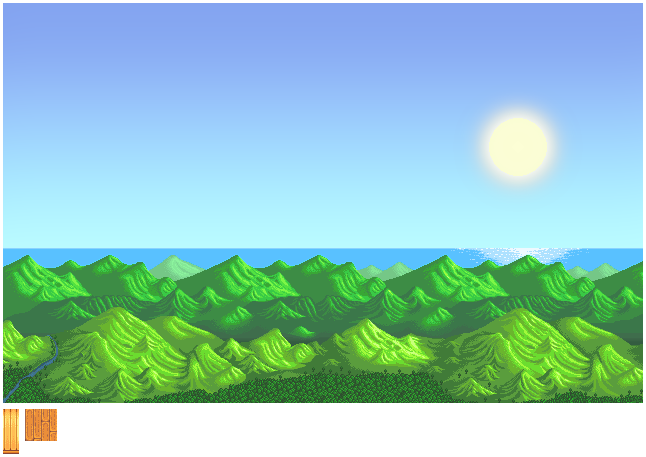
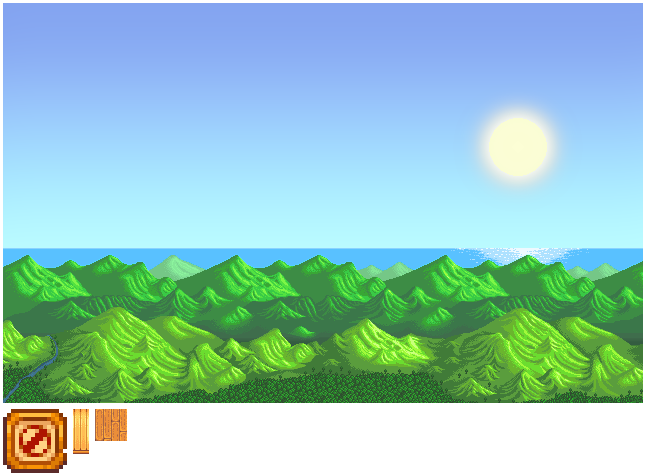
이미지 추가 및 이펙트 생성 중

Changed region(s): [[0.0, 0.5208, 1.0, 1.0], [0.774, 0.3676, 0.8359, 0.3982], [0.743, 0.2757, 0.774, 0.3063]]

diff --git a/Stardew_Valley/Stardew_Valley/Data/DataManager.cpp b/Stardew_Valley/Stardew_Valley/Data/DataManager.cpp
@@ -494,7 +494,7 @@ void DataManager::ReadTypes()
 
 	//TileTable
 	{
-		fin.open("Data/Contents/TileTable.txt");
+		fin.open("Data/Contents/TypeDefines/TileTable.txt");
 
 		string name;
 
@@ -511,7 +511,7 @@ void DataManager::ReadTypes()
 	}
 	//DeployTable
 	{
-		fin.open("Data/Contents/DeployableTable.txt");
+		fin.open("Data/Contents/TypeDefines/DeployableTable.txt");
 		string name;
 		short type;
 		short val;
@@ -536,7 +536,7 @@ void DataManager::ReadTypes()
 	}
 	//ItemTable
 	{
-		fin.open("Data/Contents/ItemTable.txt");
+		fin.open("Data/Contents/TypeDefines/ItemTable.txt");
 		string name;
 		string deployName;
 		short type;
@@ -565,7 +565,7 @@ void DataManager::ReadTypes()
 	}
 	// DropTable
 	{
-		fin.open("Data/Contents/DropTable.txt");
+		fin.open("Data/Contents/TypeDefines/DropTable.txt");
 		string name;
 		string dropItem;
 		short percent;
@@ -597,7 +597,7 @@ void DataManager::ReadTypes()
 	}
 	// FishTable
 	{
-		fin.open("Data/Contents/FishTable.txt");
+		fin.open("Data/Contents/TypeDefines/FishTable.txt");
 		_fishTable.push_back(make_shared<FishInfo>());
 		_fishTable.push_back(make_shared<FishInfo>());
 
@@ -618,7 +618,7 @@ void DataManager::ReadTypes()
 	}
 	// Crop
 	{
-		fin.open("Data/Contents/CropTable.txt");
+		fin.open("Data/Contents/TypeDefines/CropTable.txt");
 		
 
 		string name;
@@ -658,7 +658,7 @@ void DataManager::ReadTypes()
 	}
 	// Sale
 	{
-		fin.open("Data/Contents/SaleTable.txt");
+		fin.open("Data/Contents/TypeDefines/SaleTable.txt");
 
 
 		string name;
@@ -684,8 +684,8 @@ void DataManager::ReadTypes()
 
 	// Spawn
 	{
-		_spawnTable.resize(3);
-		fin.open("Data/Contents/SpawnTable.txt");
+		_spawnTable.resize(7);
+		fin.open("Data/Contents/TypeDefines/SpawnTable.txt");
 
 		string name;
 		int percent;
@@ -700,6 +700,7 @@ void DataManager::ReadTypes()
 			pair<string, int> pair = {name, percent};
 			_spawnTable[mapIndex].push_back(pair);
 		}
+
 
 		fin.close();
 	}

diff --git a/Stardew_Valley/Stardew_Valley/Object/GameObj/ObjectSpawner.cpp b/Stardew_Valley/Stardew_Valley/Object/GameObj/ObjectSpawner.cpp
@@ -269,19 +269,16 @@ void ObjectSpawner::ActiveDropItem(string name, Vector2 pos, int count)
 	}
 }
 
-void ObjectSpawner::SpawnObjects(shared_ptr<TileMap> map)
+void ObjectSpawner::SpawnObjects(shared_ptr<TileMap> map, int mapIndex, int objCount)
 {
-	int objCount = rand() % 10 + 18;
 
 	auto infos = DATA->GetDeployInfos();
 
-	auto curMap = map->GetcurrentMapInfo();
+	shared_ptr<MapInfo> mapInfo = map->GetMapInfos()[mapIndex];
 
-	vector<shared_ptr<Tile>> tiles = curMap->GetInfos();
-	int index = map->GetCurrentMapIndex();
-	if (index > 2)
-		index = 2;
-	auto spawnTable = DATA->GetSpawnInfo(index);
+	vector<shared_ptr<Tile>> tiles = mapInfo->GetInfos();
+
+	auto spawnTable = DATA->GetSpawnInfo(mapIndex);
 
 	for (int i = 0; i < objCount; i++)
 	{
@@ -290,7 +287,9 @@ void ObjectSpawner::SpawnObjects(shared_ptr<TileMap> map)
 		while (randomCount < 100)
 		{
 			randomCount++;
+
 			int randomIndex = rand() % tiles.size();
+
 
 			if (tiles[randomIndex]->GetObj() != nullptr)
 				continue;
@@ -314,7 +313,7 @@ void ObjectSpawner::SpawnObjects(shared_ptr<TileMap> map)
 
 			auto vals = infos[objName]->GetVals();
 
-			CreateObj(map->GetcurrentMapInfo(), randomIndex, objName, vals[0], vals[1]);
+			CreateObj(mapInfo, randomIndex, objName, vals[0], vals[1]);
 
 			break;
 		}

diff --git a/Stardew_Valley/Stardew_Valley/Object/Effect/EffectManager.cpp b/Stardew_Valley/Stardew_Valley/Object/Effect/EffectManager.cpp
@@ -8,6 +8,7 @@ EffectManager::EffectManager()
 	for (int i = 0; i < 30; i++)
 	{
 		_damageEffects.push_back(make_shared<DamageEffect>());
+		_breakEffects.push_back(make_shared<Effect>());
 	}
 }
 
@@ -15,12 +16,13 @@ EffectManager::EffectManager()
 void EffectManager::Render()
 {
 
-	for (auto effect : _damageEffects)
+	for (int i = 0; i < 30; i++)
 	{
-		if (!effect->_isActive)
-			continue;
+		if (_damageEffects[i]->_isActive)
+			_damageEffects[i]->Render();
 
-		effect->Render();
+		if (_breakEffects[i]->_isActive)
+			_damageEffects[i]->Render();
 	}
 }
 
@@ -30,12 +32,13 @@ void EffectManager::PostRender()
 
 void EffectManager::Update()
 {
-	for (auto effect : _damageEffects)
+	for (int i = 0; i < 30; i++)
 	{
-		if (!effect->_isActive)
-			continue;
+		if (_damageEffects[i]->_isActive)
+			_damageEffects[i]->Update();
 
-		effect->Update();
+		if (_breakEffects[i]->_isActive)
+			_damageEffects[i]->Update();
 	}
 }
 
@@ -51,4 +54,8 @@ void EffectManager::ActiveDamage(int damge, Vector2 pos)
 			break;
 		}
 	}
+}
+
+void EffectManager::ActiveBreakEffect(Vector2 pos)
+{
 }

diff --git a/Stardew_Valley/Stardew_Valley/Framework/System/DungeonSystem.cpp b/Stardew_Valley/Stardew_Valley/Framework/System/DungeonSystem.cpp
@@ -60,6 +60,7 @@ void DungeonSystem::NextStage()
 	_breakCount = 0;
 
 	auto infos = _map.lock()->GetcurrentMapInfo()->GetInfos();
+
 	for (int i = 0; i < infos.size(); i++)
 	{
 		if (infos[i]->GetObj() == nullptr)
@@ -81,7 +82,9 @@ void DungeonSystem::NextStage()
 		infos[i]->DeleteObj();
 	}
 
-	OBJECT_SPAWNER->SpawnObjects(_map.lock());
+	int objCount = rand() % 10 + 10;
+
+	OBJECT_SPAWNER->SpawnObjects(_map.lock(), dungeonIndex, objCount);
 	MONSTER_SPAWNER->Initialize();
 }
 

diff --git a/Stardew_Valley/Stardew_Valley/Object/Effect/Effect.h b/Stardew_Valley/Stardew_Valley/Object/Effect/Effect.h
@@ -8,11 +8,20 @@ public:
 	void Update();
 	void Render();
 
+	void SetAction(shared_ptr<Action> action) { _action = action; }
+
+	void SetImage(string name, int index = 0);
+
 	void Active(Vector2 pos, float timer);
 
-	Vector2 _size;
-	shared_ptr<Transform> _transform;
 	float _timer;
 	bool _isActive = false;
+
+private:
+	shared_ptr<Sprite> _renderer;
+	shared_ptr<Transform> _transform;
+
+	shared_ptr<Action> _action;
+	Vector2 _size;
 };
 

diff --git a/Stardew_Valley/Stardew_Valley/Object/UI/PlayerUI.cpp b/Stardew_Valley/Stardew_Valley/Object/UI/PlayerUI.cpp
@@ -75,10 +75,14 @@ void PlayerUI::SetSaleMode(bool val)
 	_bagUI->SetSaleMode(val);
 }
 
-void PlayerUI::AddItem(string itemName)
+bool PlayerUI::AddItem(string itemName)
 {
-	_player.lock()->PlayAction(Player::PlayerAction::FISHING3);
-	_player.lock()->AddItem(itemName);
+	if (_player.lock()->AddItem(itemName))
+	{
+		_player.lock()->PlayAction(Player::PlayerAction::FISHING3);
+		return true;
+	}
+	return false;
 }
 
 void PlayerUI::Key()

diff --git a/Stardew_Valley/Stardew_Valley/Scene/TestScene/TestScene.cpp b/Stardew_Valley/Stardew_Valley/Scene/TestScene/TestScene.cpp
@@ -114,7 +114,6 @@ void TestScene::KeyInput()
 		return;
 
 	obj->Interaction();
-	
 }
 
 void TestScene::WhenCoverDark()
@@ -133,4 +132,12 @@ void TestScene::Initialize()
 	CAMERA->Update();
 	_player->SendToSubscribers(PlayerSubscribe::ALL);
 	PLAYERUI->NextDay();
+
+	int objCount = rand() % 10 + 5;
+
+	OBJECT_SPAWNER->SpawnObjects(_map, 0, objCount);
+
+	objCount = rand() % 10 + 5;
+
+	OBJECT_SPAWNER->SpawnObjects(_map, 1, objCount);
 }

diff --git a/Stardew_Valley/Stardew_Valley/Defines.h b/Stardew_Valley/Stardew_Valley/Defines.h
@@ -72,7 +72,7 @@
 
 #define GRAVITY			9.8f
 
-#define XMLCOUNT			6
+#define XMLCOUNT			7
 
 #define XMLPATH1			L"Resource/XMLResource1.png"
 #define XMLPATH2			L"Resource/XMLResource2.png"
@@ -80,3 +80,4 @@
 #define XMLPATH4			L"Resource/XMLResource4.png"
 #define XMLPATH5			L"Resource/XMLResource5.png"
 #define XMLPATH6			L"Resource/XMLResource6.png"
+#define XMLPATH7			L"Resource/XMLResource7.png"

diff --git a/Stardew_Valley/Stardew_Valley/Object/GameObj/ObjectSpawner.h b/Stardew_Valley/Stardew_Valley/Object/GameObj/ObjectSpawner.h
@@ -41,7 +41,7 @@ public:
 	void ActiveDropItem(string name, Vector2 pos);
 	void ActiveDropItem(string name, Vector2 pos, int count);
 
-	void SpawnObjects(shared_ptr<class TileMap> map);
+	void SpawnObjects(shared_ptr<class TileMap> map, int mapIndex, int objCount);
 private:
 	static ObjectSpawner* _instance;
 

diff --git a/Stardew_Valley/Stardew_Valley/Object/Effect/EffectManager.h b/Stardew_Valley/Stardew_Valley/Object/Effect/EffectManager.h
@@ -30,11 +30,11 @@ public:
 	void Update();
 
 	void ActiveDamage(int damge, Vector2 pos);
-
+	void ActiveBreakEffect(Vector2 pos);
 private:
 	static EffectManager* _instance;
 
 	vector<shared_ptr<DamageEffect>> _damageEffects;
-	
+	vector<shared_ptr<Effect>> _breakEffects;
 };
 

diff --git a/Stardew_Valley/Stardew_Valley/Object/Effect/Effect.cpp b/Stardew_Valley/Stardew_Valley/Object/Effect/Effect.cpp
@@ -21,6 +21,11 @@ void Effect::Render()
 	_transform->Set_World();
 }
 
+void Effect::SetImage(string name, int index)
+{
+	_renderer->SetImage(name, index);
+}
+
 void Effect::Active(Vector2 pos, float timer)
 {
 	_transform->SetPos(pos);

diff --git a/Stardew_Valley/Stardew_Valley/Framework/Utility/Timer.cpp b/Stardew_Valley/Stardew_Valley/Framework/Utility/Timer.cpp
@@ -103,11 +103,11 @@ void Timer::SetNextDay()
 		if (_month > 12)
 			_month = 1;
 	}
+
 	_hour = 6;
 	_minute = 0;
 	OBJECT_SPAWNER->Update_Crops();
 	LightManager::GetInstance()->UpdateSun();
-
 }
 
 void Timer::ChangeScene()
